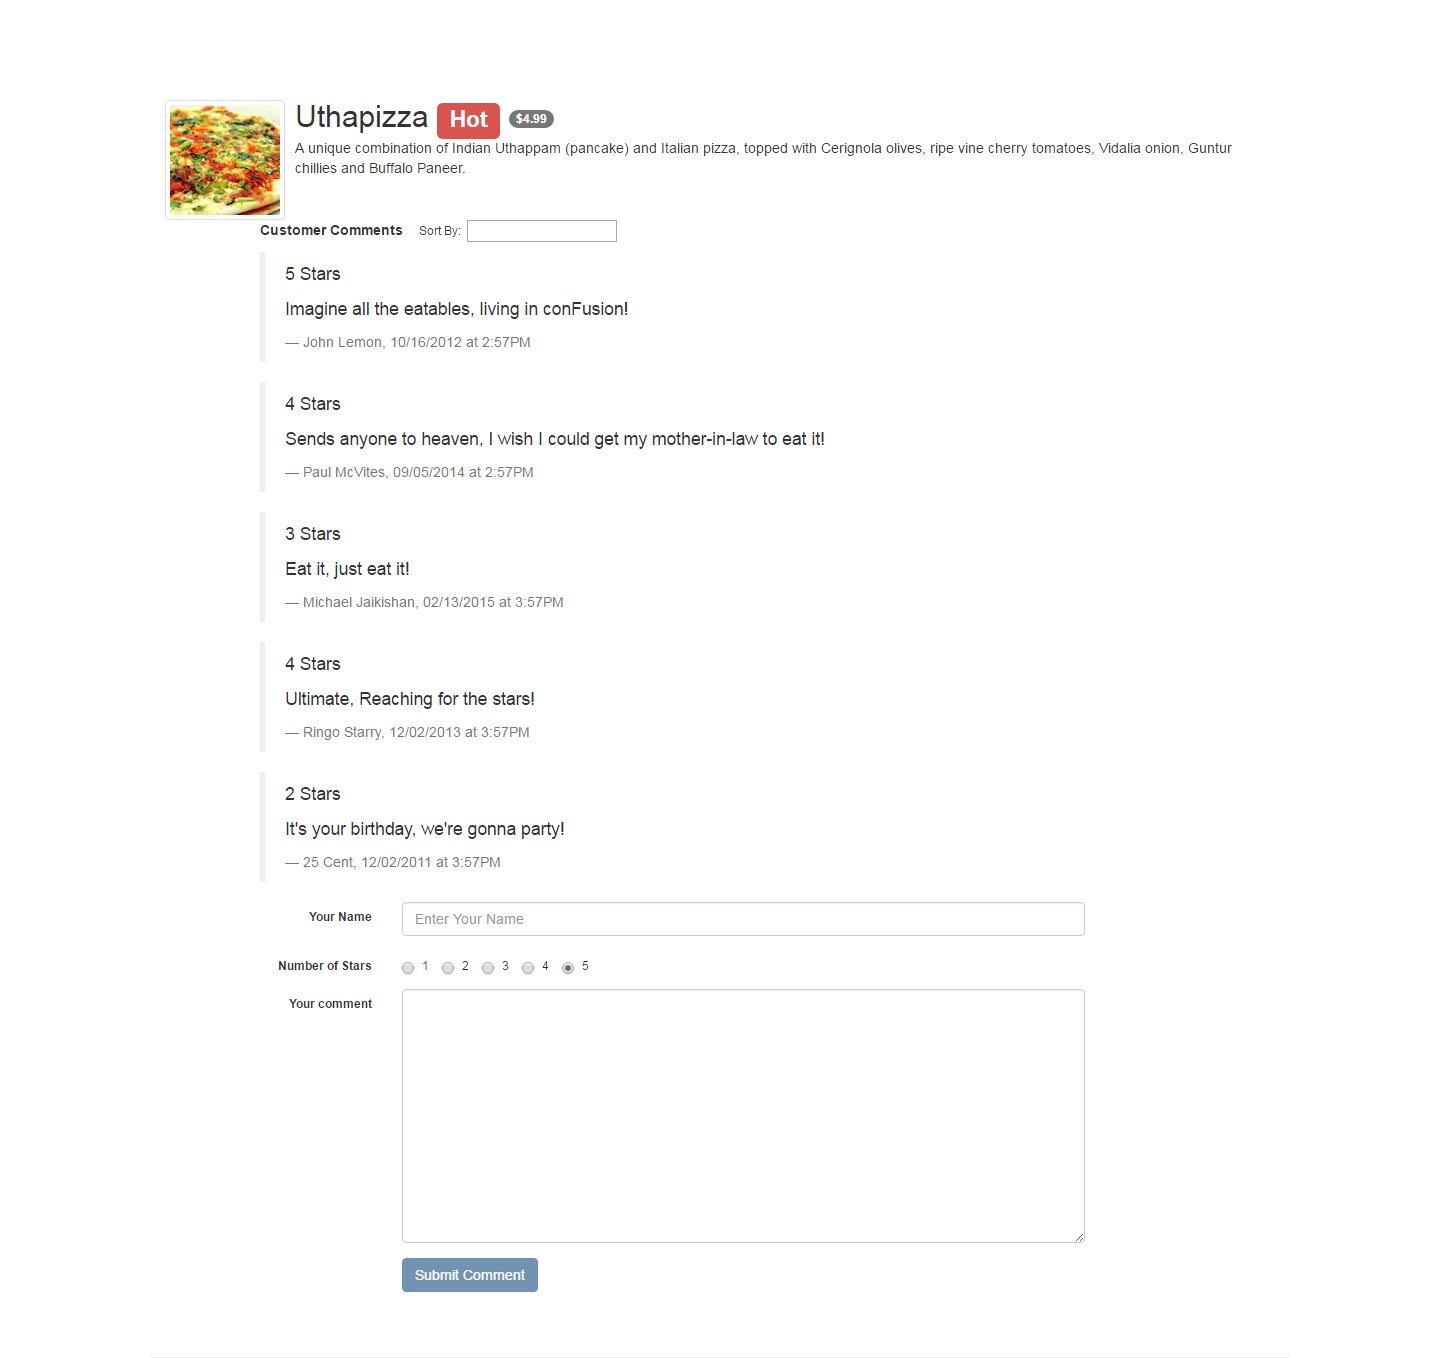
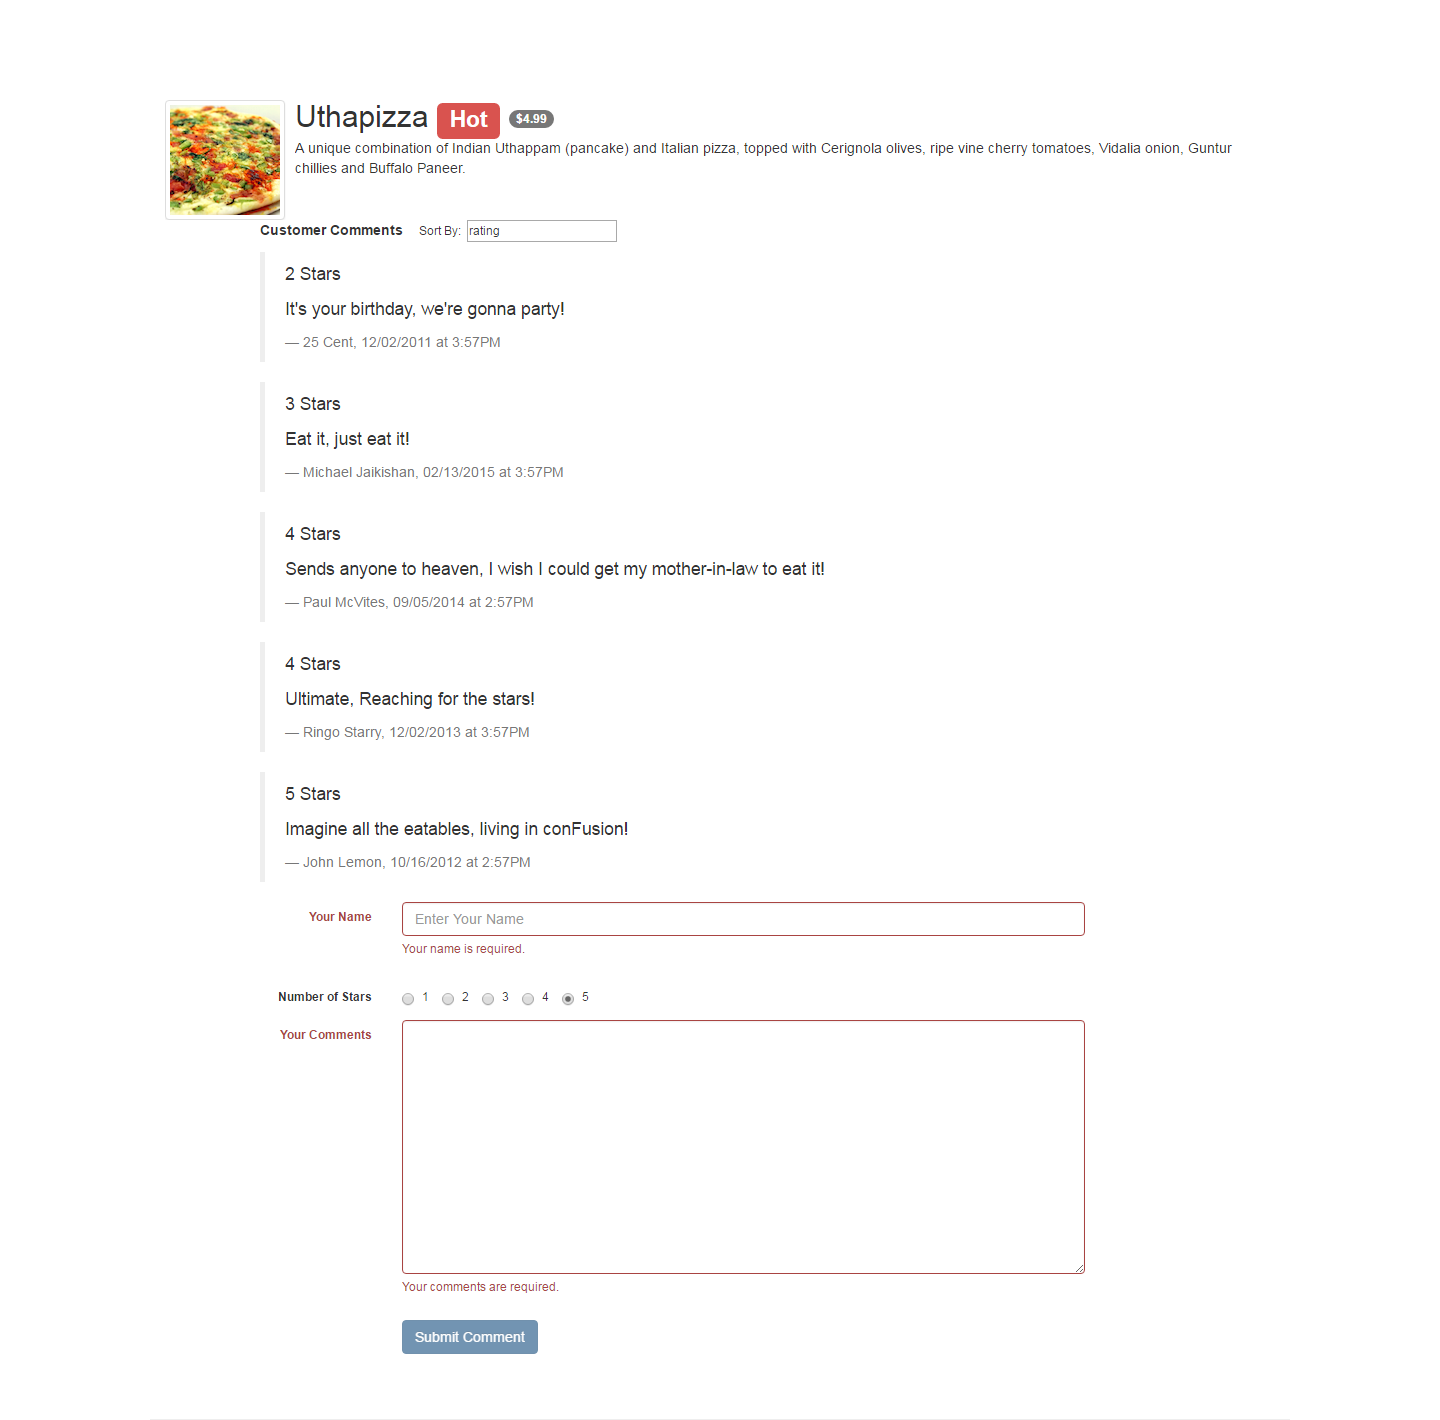
3.0 updated

Changed region(s): [[0.0938, 0.0619, 0.8438, 0.7423], [0.2812, 0.8969, 0.375, 0.9588], [0.4688, 0.3711, 0.5, 0.4021]]

diff --git a/app/scripts/app.js b/app/scripts/app.js
@@ -1,6 +1,7 @@
 'use strict';
 
 angular.module('confusionApp', [])
+
     .controller('MenuController', ['$scope', function($scope) {
 
         $scope.tab = 1;
@@ -8,42 +9,42 @@ angular.module('confusionApp', [])
         $scope.showDetails = false;
 
         $scope.dishes = [
-        {
-            name:'Uthapizza',
-            image: 'images/uthapizza.png',
-            category: 'mains',
-            label:'Hot',
-            price:'4.99',
-            description:'A unique combination of Indian Uthappam (pancake) and Italian pizza, topped with Cerignola olives, ripe vine cherry tomatoes, Vidalia onion, Guntur chillies and Buffalo Paneer.',
-            comment: ''
-        },
-        {
-            name:'Zucchipakoda',
-            image: 'images/zucchipakoda.png',
-            category: 'appetizer',
-            label:'',
-            price:'1.99',
-            description:'Deep fried Zucchini coated with mildly spiced Chickpea flour batter accompanied with a sweet-tangy tamarind sauce',
-            comment: ''
-        },
-        {
-            name:'Vadonut',
-            image: 'images/vadonut.png',
-            category: 'appetizer',
-            label:'New',
-            price:'1.99',
-            description:'A quintessential ConFusion experience, is it a vada or is it a donut?',
-            comment: ''
-        },
-        {
-            name:'ElaiCheese Cake',
-            image: 'images/elaicheesecake.png',
-            category: 'dessert',
-            label:'',
-            price:'2.99',
-            description:'A delectable, semi-sweet New York Style Cheese Cake, with Graham cracker crust and spiced with Indian cardamoms',
-            comment: ''
-        }
+            {
+                name:'Uthapizza',
+                image: 'images/uthapizza.png',
+                category: 'mains',
+                label:'Hot',
+                price:'4.99',
+                description:'A unique combination of Indian Uthappam (pancake) and Italian pizza, topped with Cerignola olives, ripe vine cherry tomatoes, Vidalia onion, Guntur chillies and Buffalo Paneer.',
+                comment: ''
+            },
+            {
+                name:'Zucchipakoda',
+                image: 'images/zucchipakoda.png',
+                category: 'appetizer',
+                label:'',
+                price:'1.99',
+                description:'Deep fried Zucchini coated with mildly spiced Chickpea flour batter accompanied with a sweet-tangy tamarind sauce',
+                comment: ''
+            },
+            {
+                name:'Vadonut',
+                image: 'images/vadonut.png',
+                category: 'appetizer',
+                label:'New',
+                price:'1.99',
+                description:'A quintessential ConFusion experience, is it a vada or is it a donut?',
+                comment: ''
+            },
+            {
+                name:'ElaiCheese Cake',
+                image: 'images/elaicheesecake.png',
+                category: 'dessert',
+                label:'',
+                price:'2.99',
+                description:'A delectable, semi-sweet New York Style Cheese Cake, with Graham cracker crust and spiced with Indian cardamoms',
+                comment: ''
+            },
         ];
 
         $scope.select = function(setTab) {
@@ -73,16 +74,23 @@ angular.module('confusionApp', [])
     }])
 
     .controller('ContactController', ['$scope', function($scope) {
+
         $scope.feedback = {mychannel:"", firstName:"", lastName:"", agree:false, email:"" };
+
         var channels = [{value:"tel", label:"Tel."}, {value:"Email",label:"Email"}];
+
         $scope.channels = channels;
         $scope.invalidChannelSelection = false;
+
     }])
 
     .controller('FeedbackController', ['$scope', function($scope) {
+
         $scope.sendFeedback = function() {
+
             console.log($scope.feedback);
-            if ($scope.feedback.agree && ($scope.feedback.mychannel == "") && !$scope.feedback.mychannel){
+
+            if ($scope.feedback.agree && ($scope.feedback.mychannel == "")) {
                 $scope.invalidChannelSelection = true;
                 console.log('incorrect');
             }
@@ -97,46 +105,46 @@ angular.module('confusionApp', [])
     }])
 
     .controller('DishDetailController', ['$scope', function($scope) {
-        var dish={
-                name:'Uthapizza',
-                image: 'images/uthapizza.png',
-                category: 'mains',
-                label:'Hot',
-                price:'4.99',
-                description:'A unique combination of Indian Uthappam (pancake) and Italian pizza, topped with Cerignola olives, ripe vine cherry tomatoes, Vidalia onion, Guntur chillies and Buffalo Paneer.',
-                comments: [
-                    {
-                        rating:5,
-                        comment:"Imagine all the eatables, living in conFusion!",
-                        author:"John Lemon",
-                        date:"2012-10-16T17:57:28.556094Z"
-                    },
-                    {
-                        rating:4,
-                        comment:"Sends anyone to heaven, I wish I could get my mother-in-law to eat it!",
-                        author:"Paul McVites",
-                        date:"2014-09-05T17:57:28.556094Z"
-                    },
-                    {
-                        rating:3,
-                        comment:"Eat it, just eat it!",
-                        author:"Michael Jaikishan",
-                        date:"2015-02-13T17:57:28.556094Z"
-                    },
-                    {
-                        rating:4,
-                        comment:"Ultimate, Reaching for the stars!",
-                        author:"Ringo Starry",
-                        date:"2013-12-02T17:57:28.556094Z"
-                    },
-                    {
-                        rating:2,
-                        comment:"It's your birthday, we're gonna party!",
-                        author:"25 Cent",
-                        date:"2011-12-02T17:57:28.556094Z"
-                    }
 
-                ]
+        var dish = {
+            name:'Uthapizza',
+            image: 'images/uthapizza.png',
+            category: 'mains',
+            label:'Hot',
+            price:'4.99',
+            description:'A unique combination of Indian Uthappam (pancake) and Italian pizza, topped with Cerignola olives, ripe vine cherry tomatoes, Vidalia onion, Guntur chillies and Buffalo Paneer.',
+            comments: [
+                {
+                    rating:5,
+                    comment:"Imagine all the eatables, living in conFusion!",
+                    author:"John Lemon",
+                    date:"2012-10-16T17:57:28.556094Z"
+                },
+                {
+                    rating:4,
+                    comment:"Sends anyone to heaven, I wish I could get my mother-in-law to eat it!",
+                    author:"Paul McVites",
+                    date:"2014-09-05T17:57:28.556094Z"
+                },
+                {
+                    rating:3,
+                    comment:"Eat it, just eat it!",
+                    author:"Michael Jaikishan",
+                    date:"2015-02-13T17:57:28.556094Z"
+                },
+                {
+                    rating:4,
+                    comment:"Ultimate, Reaching for the stars!",
+                    author:"Ringo Starry",
+                    date:"2013-12-02T17:57:28.556094Z"
+                },
+                {
+                    rating:2,
+                    comment:"It's your birthday, we're gonna party!",
+                    author:"25 Cent",
+                    date:"2011-12-02T17:57:28.556094Z"
+                }
+            ]
         };
 
         $scope.dish = dish;
@@ -146,15 +154,9 @@ angular.module('confusionApp', [])
     .controller('DishCommentController', ['$scope', function($scope) {
 
         //Step 1: Create a JavaScript object to hold the comment from the form
-        $scope.comment = {
-            author: "",
-            rating: 5,
-            comment: "",
-            date: new Date().toISOString()
-        };
+        $scope.comment = {author:"", rating:5, comment:"", date:new Date().toISOString()};
 
         $scope.submitComment = function () {
-            console.log("Comment in DishCommentController (begin) : ", $scope.comment);
 
             //Step 2: This is how you record the date
             $scope.comment.date = new Date().toISOString();
@@ -164,16 +166,9 @@ angular.module('confusionApp', [])
 
             //Step 4: reset your form to pristine
             $scope.commentForm.$setPristine();
-            console.log("commentForm : ", $scope.commentForm);
 
             //Step 5: reset your JavaScript object that holds your comment
-            $scope.comment = {
-                author: "",
-                rating: 5,
-                comment: "",
-                date: new Date().toISOString()
-            };
-            console.log("Comment in DishCommentController (end) : ", $scope.comment);
+            $scope.comment = {author:"", rating:5, comment:"", date:new Date().toISOString()};
         };
     }])
 ;

diff --git a/app/dishdetail.html b/app/dishdetail.html
@@ -5,16 +5,17 @@
      <meta charset="utf-8">
     <meta http-equiv="X-UA-Compatible" content="IE=edge">
     <meta name="viewport" content="width=device-width, initial-scale=1">
-    <!-- The above 3 meta tags *must* come first in the head; any other head content must come *after* these tags -->
+    <!-- The above 3 meta tags *must* come first in the head; any other head
+         content must come *after* these tags -->
     <title>Ristorante Con Fusion: Menu</title>
         <!-- Bootstrap -->
-    <!-- build:css styles/main.css -->
+<!-- build:css styles/main.css -->
     <link href="../bower_components/bootstrap/dist/css/bootstrap.min.css" rel="stylesheet">
     <link href="../bower_components/bootstrap/dist/css/bootstrap-theme.min.css" rel="stylesheet">
     <link href="../bower_components/font-awesome/css/font-awesome.min.css" rel="stylesheet">
     <link href="styles/bootstrap-social.css" rel="stylesheet">
     <link href="styles/mystyles.css" rel="stylesheet">
-    <!-- endbuild -->
+<!-- endbuild -->
 
     <!-- HTML5 shim and Respond.js for IE8 support of HTML5 elements and media queries -->
     <!-- WARNING: Respond.js doesn't work if you view the page via file:// -->
@@ -37,7 +38,7 @@
                     </div>
                     <div class="media-body">
                         <h2 class="media-heading">{{dish.name}}
-                            <span class="label label-danger label-xs">{{dish.label}}</span>
+                            <span class="label label-danger">{{dish.label}}</span>
                             <span class="badge">{{dish.price | currency}}</span>
                         </h2>
                         <p>{{dish.description}}</p>
@@ -50,16 +51,15 @@
 
                 <blockquote ng-repeat="comment in dish.comments | orderBy: orderText" >
                     <p>{{comment.rating}} Stars</p>
-                    <p>{{comment.comment}} </p>
-                    <footer>{{comment.author}}, {{comment.date | date:"MM/dd/yyyy 'at' h:mma" }}</footer>
+                    <p>{{comment.comment}}</p>
+                    <footer>{{comment.author}}, {{comment.date | date:"MM/dd/yyyy 'at' h:mma"}}</footer>
                 </blockquote>
             </div>
 
-            <!-- TASKS Assignment 2 -->
             <div class="col-xs-9 col-xs-offset-1" ng-controller="DishCommentController">
                 <blockquote ng-show="commentForm.$valid && !commentForm.$pristine">
                     <p>{{comment.rating}} Stars</p>
-                    <p>{{comment.comment}} </p>
+                    <p>{{comment.comment}}</p>
                     <footer>{{comment.author}}, {{comment.date | date}}</footer>
                 </blockquote>
 
@@ -78,34 +78,39 @@
                         <label for="rating" class="col-sm-2 control-label"><strong>Number of Stars</strong></label>
                         <div class="col-sm-10">
                             <label class="radio-inline">
-                            <input type="radio" name="rating" ng-value="1" ng-model="comment.rating">1 </label>
+                                <input type="radio" name="rating" ng-value="1" ng-model="comment.rating">1 
+                            </label>
                             <label class="radio-inline">
-                            <input type="radio" name="rating" ng-value="2" ng-model="comment.rating">2 </label>
+                                <input type="radio" name="rating" ng-value="2" ng-model="comment.rating">2 
+                            </label>
                             <label class="radio-inline">
-                            <input type="radio" name="rating" ng-value="3" ng-model="comment.rating">3 </label>
+                                <input type="radio" name="rating" ng-value="3" ng-model="comment.rating">3 
+                            </label>
                             <label class="radio-inline">
-                            <input type="radio" name="rating" ng-value="4" ng-model="comment.rating">4 </label>
+                                <input type="radio" name="rating" ng-value="4" ng-model="comment.rating">4 
+                            </label>
                             <label class="radio-inline">
-                            <input type="radio" name="rating" ng-value="5" ng-model="comment.rating" checked>5</label>
+                                <input type="radio" name="rating" ng-value="5" ng-model="comment.rating" checked>5
+                            </label>
                         </div>
                     </div>
 
                     <div class="form-group" ng-class="{ 'has-error' : commentForm.comment.$error.required && !commentForm.comment.$pristine }">
-                        <label for="comment" class="col-sm-2 control-label">Your comment</label>
+                        <label for="comment" class="col-sm-2 control-label">Your Comments</label>
                         <div class="col-sm-10">
                             <textarea class="form-control" name="comment" rows="12" ng-model="comment.comment" required></textarea>
                             <span ng-show="commentForm.comment.$error.required && !commentForm.comment.$pristine" class="help-block">
-                                Your comment are required.
+                                Your comments are required.
                             </span>
                         </div>
                     </div>
-
                     <div class="form-group">
                         <div class="col-sm-offset-2 col-sm-10">
                             <button type="submit" class="btn btn-primary" ng-disabled="commentForm.$invalid">Submit Comment</button>
                         </div>
                     </div>
                 </form>
+
             </div>
         </div>
     </div>
